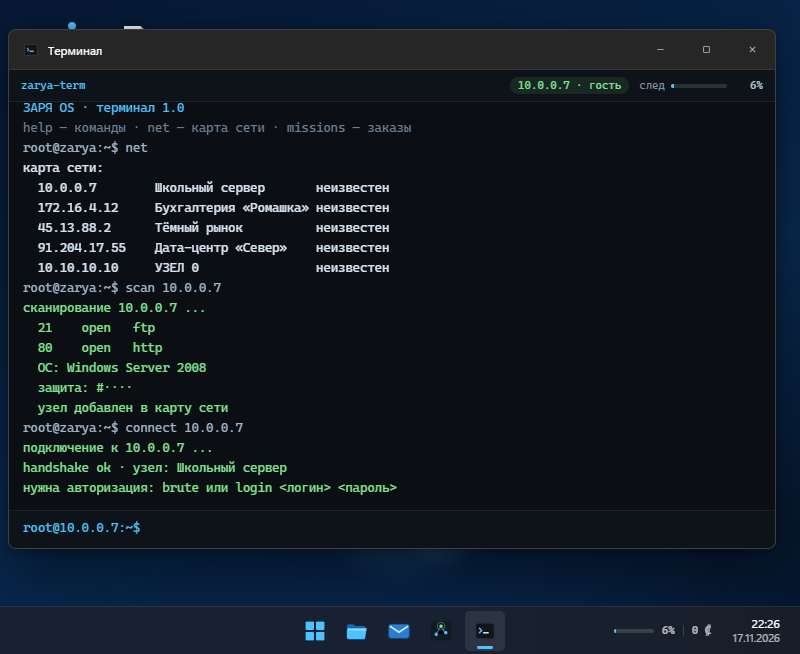
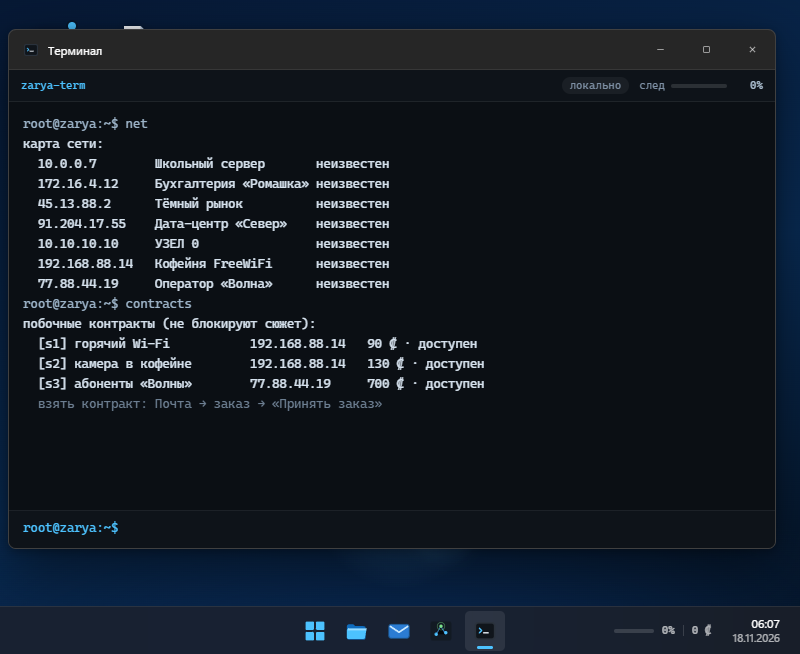
feat: ЗАРЯ OS 1.1 «Ночная смена»
- два новых узла: кофейня FreeWiFi и оператор «Волна»
- три побочных контракта с биржи (s1–s3)
- апгрейд «Ледокол» снижает след от скачивания
- кнопка сброса следа в приложении «Сеть»
- команда contracts в терминале

diff --git a/js/game.js b/js/game.js
@@ -115,11 +115,124 @@
         },
         { name: 'zarya.exe', body: 'Бинарник. Внутри — твоя же сессия, записанная заранее.' }
       ]
+    },
+    {
+      ip: '192.168.88.14',
+      name: 'Кофейня FreeWiFi',
+      os: 'Linux Mint 21',
+      sec: 2,
+      note: 'Точка доступа в кофейне. Камера, роутер и чей-то ноутбук на одном пароле.',
+      ports: [{ n: 22, s: 'ssh' }, { n: 8080, s: 'http-cam' }],
+      users: [{ u: 'barista', p: 'latte2024' }, { u: 'camera', p: 'camera' }],
+      files: [
+        {
+          name: 'wifi.log',
+          body:
+            '2026-11-16 19:04 [dhcp] 192.168.88.31  a4:5e:60:1c:8f:02\n' +
+            '2026-11-16 19:06 [dhcp] 192.168.88.44  3c:22:fb:90:11:7d\n' +
+            '2026-11-16 19:11 [auth] guest/guest — повторный вход\n' +
+            '2026-11-16 19:12 [warn] клиент 192.168.88.44 собирает пакеты в promisc\n' +
+            '2026-11-16 19:20 [dhcp] 192.168.88.52  8c:85:90:aa:03:bc\n' +
+            '...\n' +
+            '[в конце файла — чужая строка: «он ходит сюда каждый вторник»]'
+        },
+        {
+          name: 'cam_feed.txt',
+          body:
+            'Поток с камеры у кассы, 1280x720, 12 кадров/с.\n\n' +
+            'Кадр 00:42 — очередь из трёх человек, бармен считает мелочь.\n' +
+            'Кадр 01:10 — кто-то в капюшоне садится у окна, ноутбук без наклеек.\n' +
+            'Кадр 01:58 — экран в отражении витрины: тот же терминал, что у тебя.\n\n' +
+            '[запись обрывается на 02:00]'
+        }
+      ]
+    },
+    {
+      ip: '77.88.44.19',
+      name: 'Оператор «Волна»',
+      os: 'FreeBSD 13',
+      sec: 4,
+      note: 'Провинциальный оператор связи. Биллинг, детализация и много чужих номеров.',
+      ports: [{ n: 25, s: 'smtp' }, { n: 443, s: 'https' }, { n: 5432, s: 'postgres' }],
+      users: [{ u: 'ops', p: 'Volna#2026' }, { u: 'backup', p: 'volna-backup' }],
+      files: [
+        {
+          name: 'subscribers.csv',
+          body:
+            'msisdn;тариф;баланс;город;флаг\n' +
+            '+7 900 112-45-31;Базовый;120.50;Киров;0\n' +
+            '+7 900 887-02-14;Семейный;0.00;Киров;1\n' +
+            '+7 900 335-77-90;Базовый;340.10;Слободской;0\n' +
+            '...\n' +
+            '[241 883 строки. На некоторых стоит флаг 1 — принудительная блокировка]'
+        },
+        {
+          name: 'billing.dump',
+          body:
+            'Дамп биллинга за ноябрь. 240 ГБ сжатых записей.\n' +
+            'Внутри — детализация звонков, SMS и сессий по каждому абоненту.\n' +
+            'Если это утечёт, пострадают не компании, а люди из списка.'
+        }
+      ]
     }
   ];
 
   /* ——— заказы ——— */
   const MISSIONS = [
+    {
+      id: 's1',
+      side: true,
+      from: 'БИРЖА',
+      fromMail: 'board@zarya.local',
+      subject: 'горячий Wi-Fi',
+      body:
+        'Побочный контракт. Не связан с основной цепочкой.\n\n' +
+        'Кофейня на углу, 192.168.88.14. Нужен журнал подключений: wifi.log.\n' +
+        'Машина слабая, но у неё общая сеть с камерой — не шуми.\n\n' +
+        'Оплата скромная, зато заказ доступен сразу.',
+      hint: 'scan 192.168.88.14 → connect → brute → download wifi.log',
+      reward: 90,
+      rep: 1,
+      requires: null,
+      server: '192.168.88.14',
+      goal: { kind: 'download', file: 'wifi.log' }
+    },
+    {
+      id: 's2',
+      side: true,
+      from: 'БИРЖА',
+      fromMail: 'board@zarya.local',
+      subject: 'камера в кофейне',
+      body:
+        'Побочный контракт.\n\n' +
+        'Тот же адрес, 192.168.88.14. Прочитай cam_feed.txt прямо на узле, ' +
+        'скачивать запись не нужно — её слишком много.\n\n' +
+        'Говорят, в кадре есть кто-то знакомый.',
+      hint: 'connect 192.168.88.14 → cat cam_feed.txt',
+      reward: 130,
+      rep: 0,
+      requires: null,
+      server: '192.168.88.14',
+      goal: { kind: 'read', file: 'cam_feed.txt' }
+    },
+    {
+      id: 's3',
+      side: true,
+      from: 'БИРЖА',
+      fromMail: 'board@zarya.local',
+      subject: 'абоненты «Волны»',
+      body:
+        'Побочный контракт. Оплата высокая, потому что узел злой.\n\n' +
+        '77.88.44.19, региональный оператор связи. Нужен subscribers.csv — ' +
+        'список абонентов с тарифами и балансами.\n\n' +
+        'postgres наружу, пароли свежие. Без процессора и прокси не суйся.',
+      hint: 'Узел уровня 4: подними cpu и proxy в магазине.',
+      reward: 700,
+      rep: 1,
+      requires: null,
+      server: '77.88.44.19',
+      goal: { kind: 'download', file: 'subscribers.csv' }
+    },
     {
       id: 'm1',
       from: 'relay',
@@ -243,6 +356,14 @@
       costs: [400, 1100],
       max: 2,
       levels: ['нет', 'базовый', 'боевой']
+    },
+    {
+      id: 'ice',
+      name: 'Ледокол',
+      desc: 'Глушит журналы узла при скачивании. Каждый уровень −30% к следу от download.',
+      costs: [260, 700],
+      max: 2,
+      levels: ['нет', 'лёгкий', 'тяжёлый']
     }
   ];
 
@@ -381,6 +502,7 @@
     level: function (id) { return st[id] || 0; },
     shop: function () { return SHOP; },
     hideCost: HIDE_COST,
+    version: '1.1.0',
 
     missions: function () {
       return MISSIONS.map(function (m) {
@@ -557,7 +679,8 @@
       const s = server(session.ip);
       const f = s.files.find(function (x) { return x.name === name; });
       if (!f) return { ok: false, msg: 'файл не найден: ' + name };
-      if (addTrace(7)) return { ok: false, msg: 'След переполнен во время скачивания.' };
+      const noise = 7 * Math.max(0.1, 1 - (st.ice || 0) * 0.3);
+      if (addTrace(noise)) return { ok: false, msg: 'След переполнен во время скачивания.' };
       const dir = '/home/loot/' + s.ip;
       FS.mkdir(dir);
       FS.write(dir + '/' + f.name, f.body);

diff --git a/js/apps.js b/js/apps.js
@@ -46,6 +46,7 @@
       '  disconnect                отключиться от узла\n' +
       '  hide                      сбросить след (80 ₡)\n' +
       '  missions                  активные заказы\n' +
+      '  contracts                 побочные контракты\n' +
       '  shop / buy <id>           апгрейды и покупка\n' +
       '  money                     баланс\n' +
       '  whoami                    кто ты\n' +
@@ -104,7 +105,7 @@
       if (cmd === 'help') { print(HELP); return; }
       if (cmd === 'clear' || cmd === 'cls') { out.innerHTML = ''; return; }
       if (cmd === 'exit') { window.WM.close('terminal'); return; }
-      if (cmd === 'whoami') { print('root · ЗАРЯ OS 1.0 · репутация ' + G.rep() + ' · ' + fmt(G.money()) + ' ₡'); return; }
+      if (cmd === 'whoami') { print('root · ЗАРЯ OS ' + (window.Game.version || '1.1') + ' · репутация ' + G.rep() + ' · ' + fmt(G.money()) + ' ₡'); return; }
       if (cmd === 'money' || cmd === 'balance') { print('баланс: ' + fmt(G.money()) + ' ₡'); return; }
       if (cmd === 'net') {
         const list = G.servers();
@@ -120,6 +121,16 @@
         else act.forEach(function (m) {
           print('  [' + m.id + '] ' + m.subject + ' → ' + m.server + ' (' + m.goal.kind + ' ' + m.goal.file + ') · ' + m.reward + ' ₡');
         });
+        return;
+      }
+      if (cmd === 'contracts' || cmd === 'side') {
+        const side = G.missions().filter(function (m) { return m.side; });
+        print('побочные контракты (не блокируют сюжет):');
+        side.forEach(function (m) {
+          const mark = m.status === 'done' ? 'выполнен' : m.status === 'active' ? 'в работе' : 'доступен';
+          print('  [' + m.id + '] ' + m.subject.padEnd(24) + m.server.padEnd(16) + m.reward + ' ₡ · ' + mark);
+        });
+        print('  взять контракт: Почта → заказ → «Принять заказ»', 'dim');
         return;
       }
       if (cmd === 'scan') {
@@ -245,7 +256,7 @@
 
       api.body.appendChild(root);
 
-      print('ЗАРЯ OS · терминал 1.0', 'accent');
+      print('ЗАРЯ OS · терминал ' + (window.Game.version || '1.1'), 'accent');
       print('help — команды · net — карта сети · missions — заказы', 'dim');
       print('', 'dim');
 
@@ -499,12 +510,20 @@
         '    <div class="stat stat--trace"><span>След</span><b data-el="traceVal">0%</b>' +
         '      <div class="meter"><i data-el="trace"></i></div>' +
         '    </div>' +
+        '    <div class="stat stat--act"><span>Чистка маршрута</span>' +
+        '      <button type="button" class="btn btn--sm" data-act="hide">Сбросить след · 80 ₡</button>' +
+        '    </div>' +
         '  </div>' +
         '  <div class="net-note">Все узлы вымышленные. Сеть живёт только внутри игры.</div>' +
         '  <div class="net-grid" data-el="grid"></div>' +
         '</div>'
       );
       api.body.appendChild(root);
+      root.querySelector('[data-act="hide"]').addEventListener('click', function () {
+        const r = window.Game.hide();
+        window.UI.toast(r.msg, r.ok ? 'ok' : 'err');
+        render();
+      });
       render();
       window.addEventListener('zarya:game', render);
     }
@@ -949,7 +968,7 @@
         '        <button type="button" class="btn btn--danger" data-act="reset-game">Начать заново</button>' +
         '      </div>' +
         '    </section>' +
-        '    <p class="set-foot">ЗАРЯ OS 1.0 · всё вымышлено, все узлы и пароли — часть игры.</p>' +
+        '    <p class="set-foot">ЗАРЯ OS 1.1 · всё вымышлено, все узлы и пароли — часть игры.</p>' +
         '  </div>' +
         '</div>'
       );
@@ -1003,7 +1022,7 @@
         '<div class="app about">' +
         '  <div class="about-head">' +
         '    <span class="about-logo">' + window.ICONS.start + '</span>' +
-        '    <div><h2>ЗАРЯ OS</h2><p class="muted">версия 1.0 «Рассвет» · сборка 20261117</p></div>' +
+        '    <div><h2>ЗАРЯ OS</h2><p class="muted">версия 1.1 «Ночная смена» · сборка 20261118</p></div>' +
         '  </div>' +
         '  <div class="about-grid">' +
         '    <div><span>Процессор</span><b data-el="cpu">1 ядро</b></div>' +

diff --git a/js/fs.js b/js/fs.js
@@ -17,7 +17,7 @@
     'Если след дойдёт до 100% — тебя вычислят и оштрафуют.\n';
 
   const README =
-    'ЗАРЯ OS 1.0 «Рассвет» — карманная операционная система.\n' +
+    'ЗАРЯ OS 1.1 «Ночная смена» — карманная операционная система.\n' +
     'Собрана на HTML, CSS и чистом JavaScript.\n\n' +
     'Файлы, заметки, прогресс и настройки лежат в localStorage браузера.\n' +
     'Никаких серверов, никакого интернета: вся сеть внутри игры.\n';
@@ -44,7 +44,7 @@
           type: 'dir',
           name: 'system',
           children: [
-            { type: 'file', name: 'version.txt', body: 'ЗАРЯ OS 1.0 build 20261117' },
+            { type: 'file', name: 'version.txt', body: 'ЗАРЯ OS 1.1 build 20261118' },
             { type: 'file', name: 'hosts.txt', body: 'zarya   127.0.0.1\nrelay   10.0.0.1' }
           ]
         }

diff --git a/css/style.css b/css/style.css
@@ -980,6 +980,9 @@ html[data-theme="light"] .btn--danger { color: #b3261e; }
 .stat b { font-size: 15px; font-weight: 600; }
 .stat--trace .meter { display: block; width: 100%; margin-top: 8px; }
 .stat--trace .meter i.is-hot, .meter i.is-hot { background: #ff6b6b; }
+.stat--act { display: flex; flex-direction: column; justify-content: space-between; gap: 6px; }
+.stat--act > span { margin-bottom: 0; }
+.stat--act .btn { width: 100%; margin-top: 2px; }
 .net-note { margin: 12px 0; font-size: 11.5px; color: var(--text-3); }
 .net-grid { display: grid; grid-template-columns: repeat(auto-fill, minmax(248px, 1fr)); gap: 10px; }
 

diff --git a/README.md b/README.md
@@ -1,7 +1,7 @@
 # ЗАРЯ OS — хакер-симулятор в оболочке Windows 11
 
 [![Демо](https://img.shields.io/badge/играть-онлайн-2f9fe0?style=flat-square)](https://yungspiderq.github.io/zarya-os/)
-[![Версия](https://img.shields.io/badge/версия-1.0.0-6ccb5f?style=flat-square)](CHANGELOG.md)
+[![Версия](https://img.shields.io/badge/версия-1.1.0-6ccb5f?style=flat-square)](CHANGELOG.md)
 [![Лицензия](https://img.shields.io/badge/лицензия-MIT-ffa04d?style=flat-square)](LICENSE)
 
 Маленькая «операционная система» на HTML + CSS + чистом JavaScript.
@@ -23,12 +23,12 @@
 
 | Приложение | Зачем |
 |---|---|
-| Терминал | Взлом: `scan`, `connect`, `brute`, `login`, `ls`, `cat`, `download`, `hide` |
-| Почта | Заказы от «relay»: принять, выполнить, получить деньги |
-| Сеть | Карта узлов: защита, порты, статус взлома |
+| Терминал | Взлом: `scan`, `connect`, `brute`, `login`, `ls`, `cat`, `download`, `hide`, `contracts` |
+| Почта | Заказы от «relay» и побочные контракты с биржи |
+| Сеть | Карта узлов: защита, порты, статус взлома, кнопка сброса следа |
 | Проводник | Локальные файлы, добыча в `~/loot/<ip>` |
 | Заметки | Свои записи и пароли |
-| Магазин | Процессор, прокси-цепочка, скрипт-кит |
+| Магазин | Процессор, прокси-цепочка, скрипт-кит, ледокол |
 | Настройки | Тема, акцент, обои, эффекты, сброс прогресса |
 | О системе | Статистика сессии |
 
@@ -38,8 +38,24 @@
 2. В **Терминале**: `scan 10.0.0.7` → `connect 10.0.0.7` → `brute` → `download grades.db`.
 3. Заказ закроется сам, деньги придут на баланс.
 4. Каждое действие на чужом узле поднимает **след**. 100% — тебя ловят:
-   штраф 35% баланса и −1 репутация. `hide` сбрасывает след за 80 ₡.
-5. Апгрейды в **Магазине** ускоряют подбор пароля и снижают прирост следа.
+   штраф 35% баланса и −1 репутация. `hide` сбрасывает след за 80 ₡
+   (кнопка есть и в приложении **Сеть**).
+5. Апгрейды в **Магазине** ускоряют подбор пароля, снижают прирост следа
+   и глушат журналы узла при скачивании.
+
+## Побочные контракты
+
+Кроме основной цепочки из пяти заказов в почте лежат три контракта с биржи.
+Они доступны сразу, не блокируют сюжет и не мешают основной линии:
+
+| Контракт | Узел | Задача | Награда |
+|---|---|---|---|
+| горячий Wi-Fi | 192.168.88.14 · Кофейня FreeWiFi | скачать `wifi.log` | 90 ₡ |
+| камера в кофейне | 192.168.88.14 · Кофейня FreeWiFi | прочитать `cam_feed.txt` | 130 ₡ |
+| абоненты «Волны» | 77.88.44.19 · Оператор «Волна» | скачать `subscribers.csv` | 700 ₡ |
+
+В терминале их список выводит команда `contracts`. Всего в сети 7 узлов:
+5 сюжетных и 2 дополнительных.
 
 Все адреса, пароли и организации вымышлены. Это игра, а не инструкция.
 

diff --git a/CHANGELOG.md b/CHANGELOG.md
@@ -1,5 +1,27 @@
 # История версий
 
+## 1.1.0 — «Ночная смена» (2026-11-18)
+
+Контентное обновление: новые узлы, побочные контракты и защита от следа.
+
+### Новое
+
+- Два узла в сети: **192.168.88.14** «Кофейня FreeWiFi» (защита 2) и
+  **77.88.44.19** «Оператор «Волна»» (защита 4, порт postgres наружу).
+- Три побочных контракта с биржи: `s1` «горячий Wi-Fi» (90 ₡),
+  `s2` «камера в кофейне» (130 ₡), `s3` «абоненты «Волны»» (700 ₡).
+  Доступны сразу, идут параллельно основной цепочке и не блокируют сюжет.
+- Магазин: **Ледокол** — снижает след от `download` на 30% за уровень
+  (2 уровня, 260 ₡ и 700 ₡).
+- В приложении **Сеть** появилась кнопка «Сбросить след · 80 ₡».
+- Терминал: команда `contracts` (она же `side`) выводит список побочных
+  контрактов с узлом, наградой и статусом.
+
+### Изменено
+
+- Новые письма приходят сразу после приветственного — почта больше не пустует.
+- Версия в приложении «О системе» и в `~/readme.txt` обновлена до 1.1.
+
 ## 1.0.0 — «Рассвет» (2026-11-17)
 
 Первый публичный релиз.
